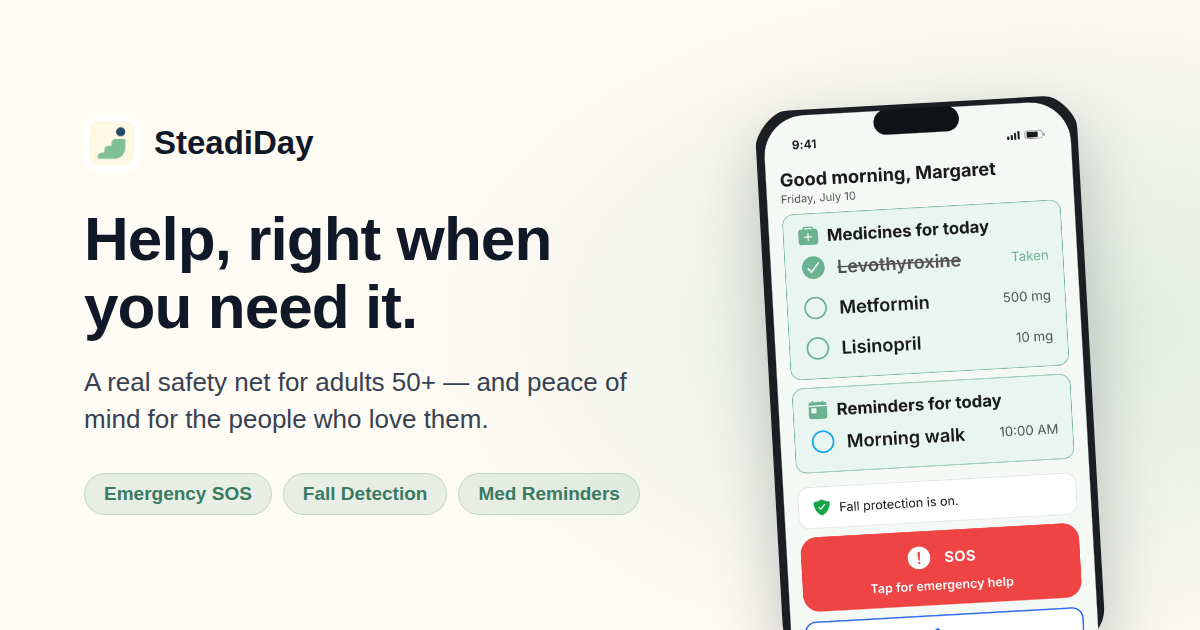
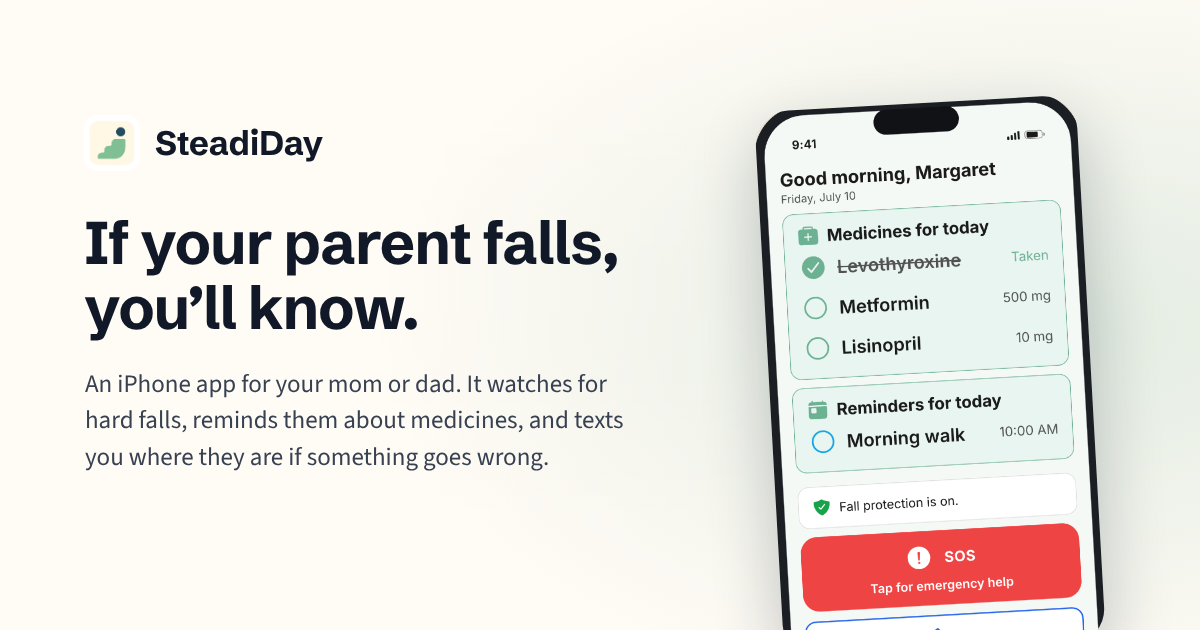
Replace the link-preview card with the current hero copy
The old card said "Help, right when you need it." with an em-dash
subline and three feature pills; #44 took all three off the homepage.
It now carries the hero line, "If your parent falls, you'll know.", and
a shortened version of the hero description, set in the site's fonts
(Schibsted Grotesk, Source Sans 3). The old card had been rendered in a
fallback sans. The logo icon, phone mockup and background are kept.

og:image and twitter:image get ?v=2 so social sites fetch the new card
instead of serving their cached copy.

Claude-Session: https://claude.ai/code/session_01B7bWcWhseW8tgsR2fWDTmb

Changed region(s): [[0.0617, 0.573, 0.5242, 0.8143], [0.0617, 0.3317, 0.5242, 0.5429], [0.1233, 0.181, 0.2775, 0.2714]]

diff --git a/index.html b/index.html
@@ -44,7 +44,7 @@ gtag('config', 'G-LF8H890XTV');
 <meta property="og:site_name" content="SteadiDay">
 <meta property="og:title" content="SteadiDay: Free Wellness & Safety App for Adults 50+">
 <meta property="og:description" content="Free safety essentials plus premium health & wellness features: medication reminders, emergency SOS, fall detection, balance exercises & caregiver sharing. Designed for adults 50+.">
-<meta property="og:image" content="https://www.steadiday.com/assets/og-image.png">
+<meta property="og:image" content="https://www.steadiday.com/assets/og-image.png?v=2">
 <meta property="og:image:width" content="1200">
 <meta property="og:image:height" content="630">
 <meta property="og:locale" content="en_US">
@@ -54,7 +54,7 @@ gtag('config', 'G-LF8H890XTV');
 <meta name="twitter:url" content="https://www.steadiday.com/">
 <meta name="twitter:title" content="SteadiDay: Free Wellness & Safety App for Adults 50+">
 <meta name="twitter:description" content="Free safety essentials plus premium health features: SOS, fall detection, medication reminders, balance exercises & caregiver sharing. Designed for adults 50+.">
-<meta name="twitter:image" content="https://www.steadiday.com/assets/og-image.png">
+<meta name="twitter:image" content="https://www.steadiday.com/assets/og-image.png?v=2">
 
 <!-- Additional SEO Meta Tags -->
 <meta name="theme-color" content="#4A9D7E">
